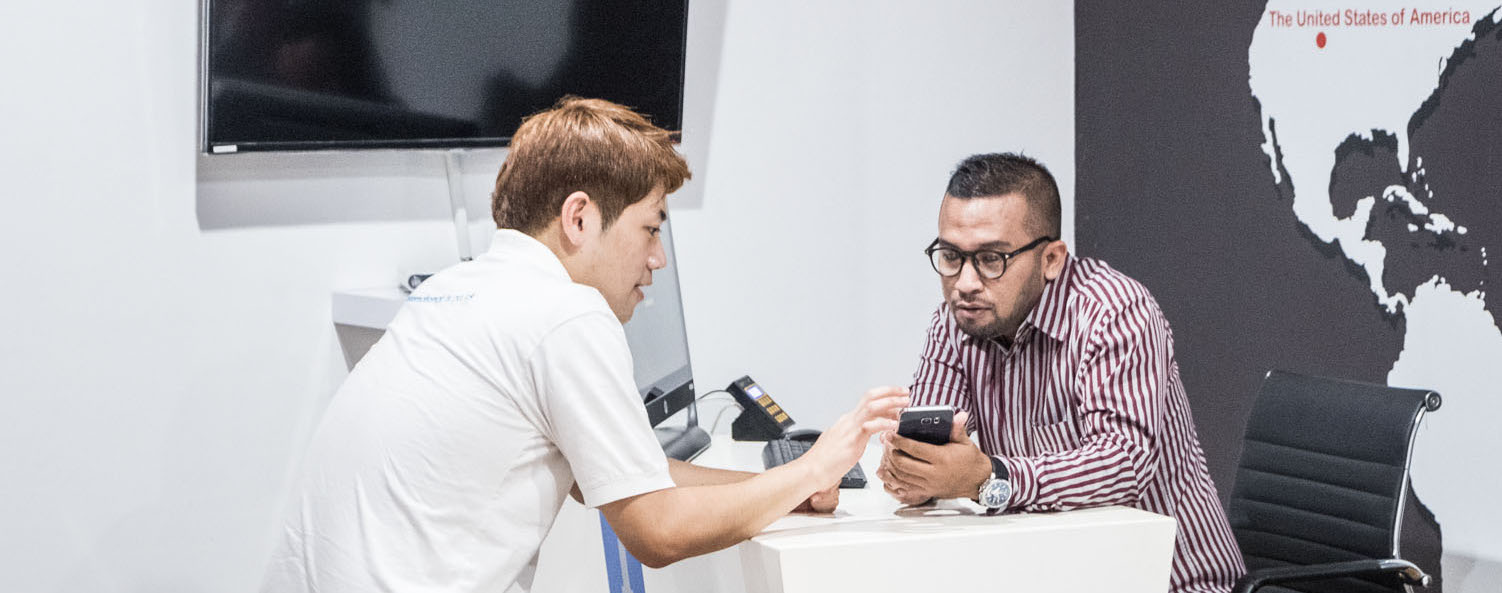
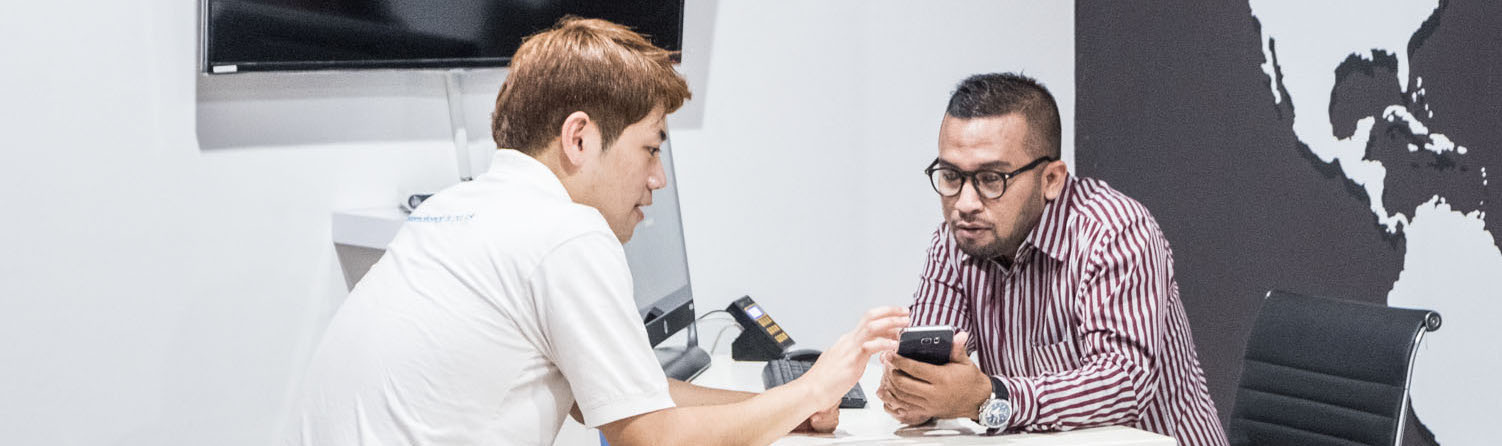
fix flipbox + accordion

diff --git a/public/v2/css/style.css b/public/v2/css/style.css
@@ -650,120 +650,70 @@ footer .social-icon
 
 /* end of accordion */
 
-/* start of flip box */
-
-/*-=-=-=-=-=-=-=-=-=-*/
-/* Column Grids */
-/*-=-=-=-=-=-=-=-=-= */
-
-.col_half { width: 49%; }
-.col_third { width: 32%; }
-.col_fourth { width: 23.5%; }
-.col_fifth { width: 18.4%; }
-.col_sixth { width: 15%; }
-.col_three_fourth { width: 74.5%;}
-.col_twothird{ width: 66%;}
-.col_half,
-.col_third,
-.col_twothird,
-.col_fourth,
-.col_three_fourth,
-.col_fifth{
-	position: relative;
-	display:inline;
-	display: inline-block;
-	float: left;
-	margin-right: 2%;
-	margin-bottom: 20px;
-}
-.end { margin-right: 0 !important; }
-
-/*-=-=-=-=-=-=-=-=-=-=- */
-/* Flip Panel */
-/*-=-=-=-=-=-=-=-=-=-=- */
-
-.flip-wrapper{ width: 980px; margin: 0 auto;  background-color: #bdd3de; hoverflow: hidden;}
-
-.flip-panel {
-	margin: 0 auto;
-	height: 130px;  
-	position: relative;
-	-webkit-perspective: 600px;
-	-moz-perspective: 600px;
-}
-
-.flip-panel .front,
-.flip-panel .back {
-	text-align: center;
-}
-	
-.flip-panel .front {
-	height: inherit;
-	position: absolute;
-	top: 0;
-	z-index: 900;
-	text-align: center;
-	-webkit-transform: rotateX(0deg) rotateY(0deg);
-	   -moz-transform: rotateX(0deg) rotateY(0deg);
-	-webkit-transform-style: preserve-3d;
-	   -moz-transform-style: preserve-3d;
-	-webkit-backface-visibility: hidden;
-	   -moz-backface-visibility: hidden;
-	-webkit-transition: all .4s ease-in-out;
-	   -moz-transition: all .4s ease-in-out;
-		-ms-transition: all .4s ease-in-out;
-		 -o-transition: all .4s ease-in-out;
-			transition: all .4s ease-in-out;
-}
-
-.flip-panel .back {
-	height: inherit;
-	position: absolute;
-	top: 0;
-	z-index: 1000;
-	-webkit-transform: rotateY(-180deg);
-	   -moz-transform: rotateY(-180deg);
-	-webkit-transform-style: preserve-3d;
-	   -moz-transform-style: preserve-3d;
-	-webkit-backface-visibility: hidden;
-	   -moz-backface-visibility: hidden;
-	-webkit-transition: all .4s ease-in-out;
-	   -moz-transition: all .4s ease-in-out;
-		-ms-transition: all .4s ease-in-out;
-		 -o-transition: all .4s ease-in-out;
-			transition: all .4s ease-in-out;
-}
-.flip-panel.flip .front {
-	z-index: 900;
-	-webkit-transform: rotateY(180deg);
-	-moz-transform: rotateY(180deg);
-}
-.flip-panel.flip .back {
-	z-index: 1000;
-	-webkit-transform: rotateX(0deg) rotateY(0deg);
-	-moz-transform: rotateX(0deg) rotateY(0deg);
-}
-.box1{
-	background-color: #14bcc8;
-	width: 250px;
-	height: 150px;
-	margin: 0 auto;
-	padding: 20px;
-	border-radius: 10px;
-	-moz-border-radius: 10px;
-	-webkit-border-radius: 10px;
-}
-.box2{
-	background-color: #ff7e70;
-	width: 250px;
-	height: 150px;
-	margin: 0 auto;
-	padding: 20px;
-	border-radius: 10px;
-	-moz-border-radius: 10px;
-	-webkit-border-radius: 10px;
-}
-/* end of flip box */
+/* start of flipbox */
+.flipbox .front, .flipbox .back {
+    position: absolute;
+    -webkit-backface-visibility: hidden;
+            backface-visibility: hidden;
+    transition: -webkit-transform 0.5s;
+    transition: transform 0.5s;
+    transition: transform 0.5s, -webkit-transform 0.5s;
+    width: 80%;
+    height: 180px;
+    border-radius: 7px;
+    padding: 20px;
+    display: flex;
+    flex-wrap: wrap;
+    text-align: center;
+    justify-content: center;
+    align-items: baseline;
+  }
+  
+  .flipbox {
+    float: left;
+    width: 200px;
+    height: 180px;
+    margin: 10px;
+  }
+  .flipbox .front {
+    -webkit-transform: rotateY(0deg);
+            transform: rotateY(0deg);
+    background: #f6f6f6;
+  }
+  .flipbox .front > h2 {
+    font-size: 22px;
+    width: 100%;
+    margin: 0 0 10px 0;
+  }
+  .flipbox .front > i.fa {
+    font-size: 3em;
+    align-self: flex-end;
+  }
+  .flipbox .front > img {
+    height: 49px;
+    width: auto;
+    align-self: flex-end;
+  }
+  .flipbox .back {
+    -webkit-transform: rotateY(180deg);
+            transform: rotateY(180deg);
+    background: #9e9e9e;
+  }
+  .flipbox .back > a {
+    align-self: center;
+    width: 100%;
+  }
+  .flipbox:hover .front {
+    -webkit-transform: rotateY(-180deg);
+            transform: rotateY(-180deg);
+  }
+  .flipbox:hover .back {
+    -webkit-transform: rotateY(0deg);
+            transform: rotateY(0deg);
+  }
+  
+  
+/* end of flipbox */
 
 /* start of greenbutton */
 .btngreen
@@ -786,6 +736,7 @@ footer .social-icon
     background: #fff;
     color: #93ca3a;
     border: 2px solid transparent;
+    text-decoration: none;
 }
 /* end of greenbutton */
 

diff --git a/resources/views/layouts/layout.blade.php b/resources/views/layouts/layout.blade.php
@@ -63,7 +63,7 @@ http://www.tooplate.com/view/2081-solution
 		    <div class="flexslider">
 		      <ul class="slides">
 		        <li>
-		        	<img src="{{url('img/front.jpg')}}" alt="Slide 1">
+		        	<img src="{{url('img/front.jpg')}}" style="opacity: 0.7"alt="Slide 1">
 		        	<div class="slider-caption">
 								<div class="templatemo_homewrapper">
 									{{-- <h1 class="wow fadeInDown" data-wow-delay="2000">Solution Company</h1> --}}
@@ -111,7 +111,7 @@ http://www.tooplate.com/view/2081-solution
 														</a>
 													</h4>
 												</div>
-												<div id="collapseOne" class="panel-collapse collapse" role="tabpanel" aria-labelledby="headingOne">
+												<div id="collapseOne" class="panel-collapse collapse in" role="tabpanel" aria-labelledby="headingOne">
 													<div class="panel-body">
 															Visi: <br><br>
 				
@@ -153,11 +153,15 @@ http://www.tooplate.com/view/2081-solution
 												</div>
 												<div id="collapseThree" class="panel-collapse collapse" role="tabpanel" aria-labelledby="headingThree">
 													<div class="panel-body">
-														Kami sepakat untuk menerapkan standar pelayanan permohonan informasi publik di lingkungan Institut Teknologi Sepuluh Nopember, oleh karena itu kami berkomitmen untuk:
+														Kami sepakat untuk menerapkan standar pelayanan permohonan informasi publik di lingkungan Institut Teknologi Sepuluh Nopember, oleh karena itu kami berkomitmen untuk:<br><br>
+<ol>
+	<li><p>Menerapkan dan memelihara standar pelayanan informasi publik secara konsisten dan berkesinambungan</p></li>
+	<li><p>Melayani permintaan informasi publik sesuai persyaratan yang ada di UU KIP dan Peraturan Komisi Informasi</p></li>
+	<li><p>Meningkatkan kinerja layanan informasi publik melalui penerapan prinsip pelayanan prima dengan sepenuh hati, transparan, cepat, akurat dan aman</p></li>
+</ol>
 
-Menerapkan dan memelihara standar pelayanan informasi publik secara konsisten dan berkesinambungan
-Melayani permintaan informasi publik sesuai persyaratan yang ada di UU KIP dan Peraturan Komisi Informasi
-Meningkatkan kinerja layanan informasi publik melalui penerapan prinsip pelayanan prima dengan sepenuh hati, transparan, cepat, akurat dan aman
+
+
 													</div>
 												</div>
 											</div>
@@ -185,21 +189,42 @@ Meningkatkan kinerja layanan informasi publik melalui penerapan prinsip pelayana
 						</div>
 					</div> --}}
 					<div class="col-md-4 col-sm-4">
-							<div class="flip-wrapper">
-									<div class="col_third">
-										<div class="hover flip-panel">
-											<div class="front">
-												<div class="box1">
-													<p>Front Side</p>
-												</div>
-											</div>
-											<div class="back">
-												<div class="box2">
-													<p>Back Side</p>
-												</div>
-											</div>
-										</div>
+						<div class="flipbox">
+							<div class="back">
+								<div class="row">
+									<p>Waktu Layanan</p>
+									<h4>Senin - Jumat</h4>
+									<h4>08.00-16.00 WIB</h4>
 								</div>
+							</div>
+							<div class="front">
+								<h2>Waktu Layanan</h2>
+								<p>Senin - Jumat 08.00-16.00 WIB</p>
+							</div>
+						</div>
+
+						<div class="flipbox">
+							<div class="back">
+								<p>Tile 0</p>
+								<a href="" target="_blank">Enter!</a>
+							</div>
+							<div class="front">
+								<h2>Tile 0</h2>
+								<i class="fa fa-wrench"></i>
+							</div>
+						</div>
+
+						<div class="flipbox">
+							<div class="back">
+								<p>Tile 0</p>
+								<a href="" target="_blank">Enter!</a>
+							</div>
+							<div class="front">
+								<h2>Tile 0</h2>
+								<i class="fa fa-wrench"></i>
+							</div>
+						</div>
+					</div>
 						
 								{{-- <div class="col_third">
 										<div class="hover panel">
@@ -240,7 +265,7 @@ Meningkatkan kinerja layanan informasi publik melalui penerapan prinsip pelayana
 								<p>Lorem ipsum dolor sit amet, consectetuer adipiscing elit, sed diam nonummy nibh euism.</p>
 							</div>
 						</div> --}}
-					</div>
+					{{-- </div> --}}
 					{{-- <div class="col-md-8 col-sm-8">
 						<div class="media">
 							<div class="media-object media-left wow fadeIn" data-wow-delay="0.9s">
@@ -848,19 +873,16 @@ Meningkatkan kinerja layanan informasi publik melalui penerapan prinsip pelayana
 		<script src="{{url('v2/js/jquery.flexslider.js')}}"></script>
 		<!-- custom -->
 		<script src="{{url('v2/js/custom.js')}}"></script>
-
-		<script type="text/javascript">	
+		<script type="text/javascript">
 		$(document).ready(function(){
-				// set up hover panels
-				// although this can be done without JavaScript, we've attached these events
-				// because it causes the hover to be triggered when the element is tapped on a touch device
-				$('.hover').hover(function(){
-					$(this).addClass('flip');
-				},function(){
-					$(this).removeClass('flip');
-				});
+			$('.hover').hover(function(){
+				$(this).addClass('flip');
+			},function(){
+				$(this).removeClass('flip');
 			});
-			</script>
+		});
+		</script>
+
 
 	</body>
 </html>
